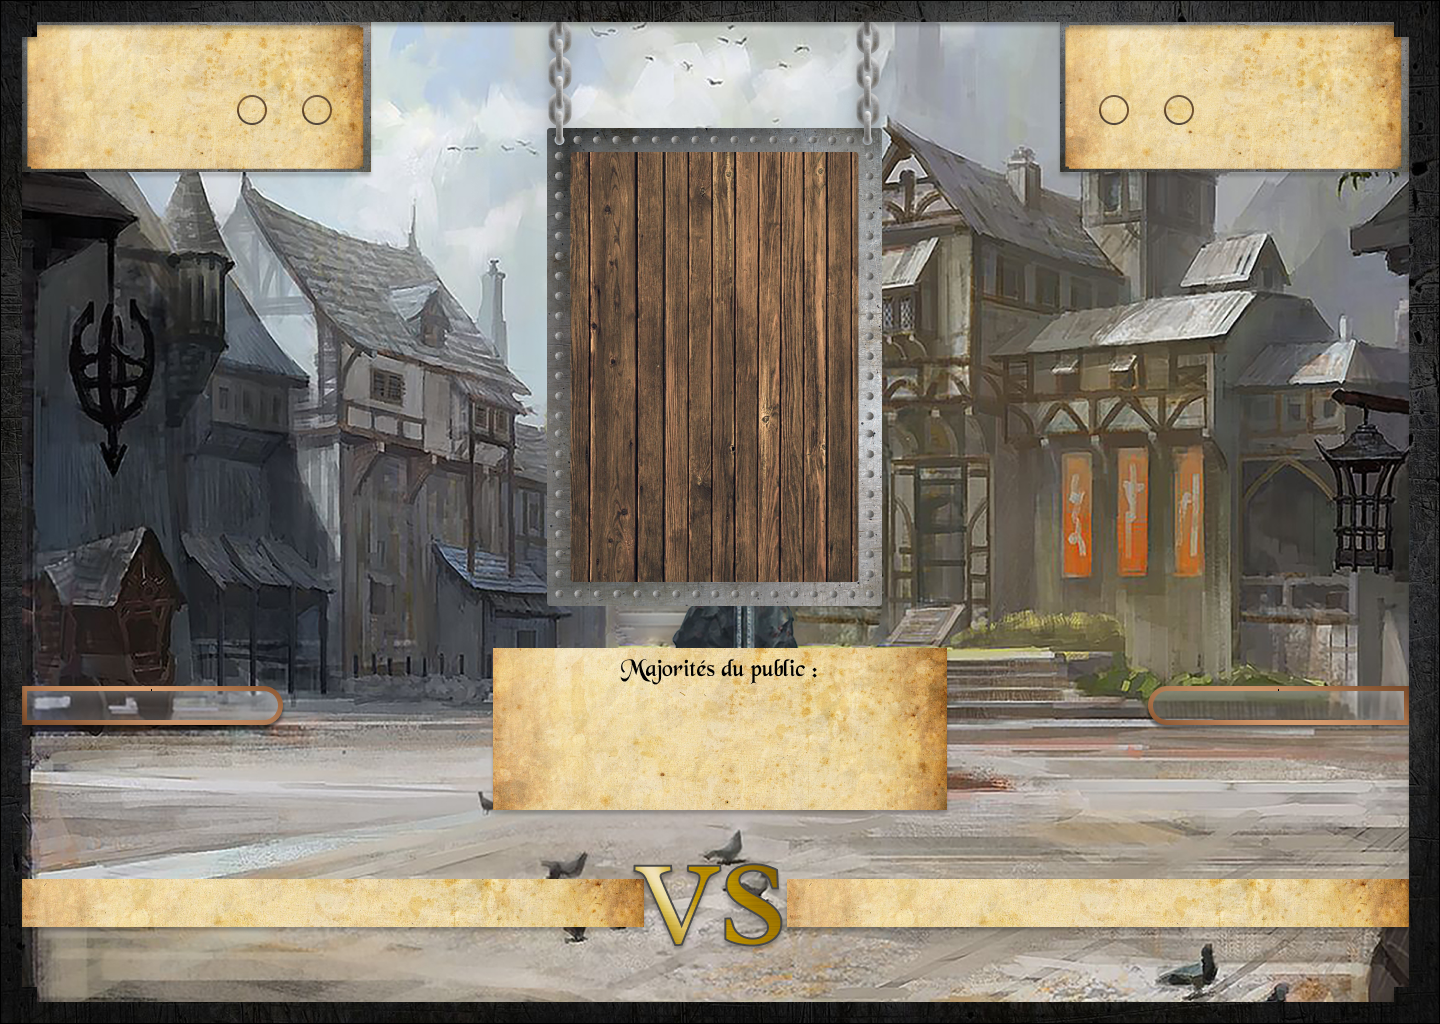
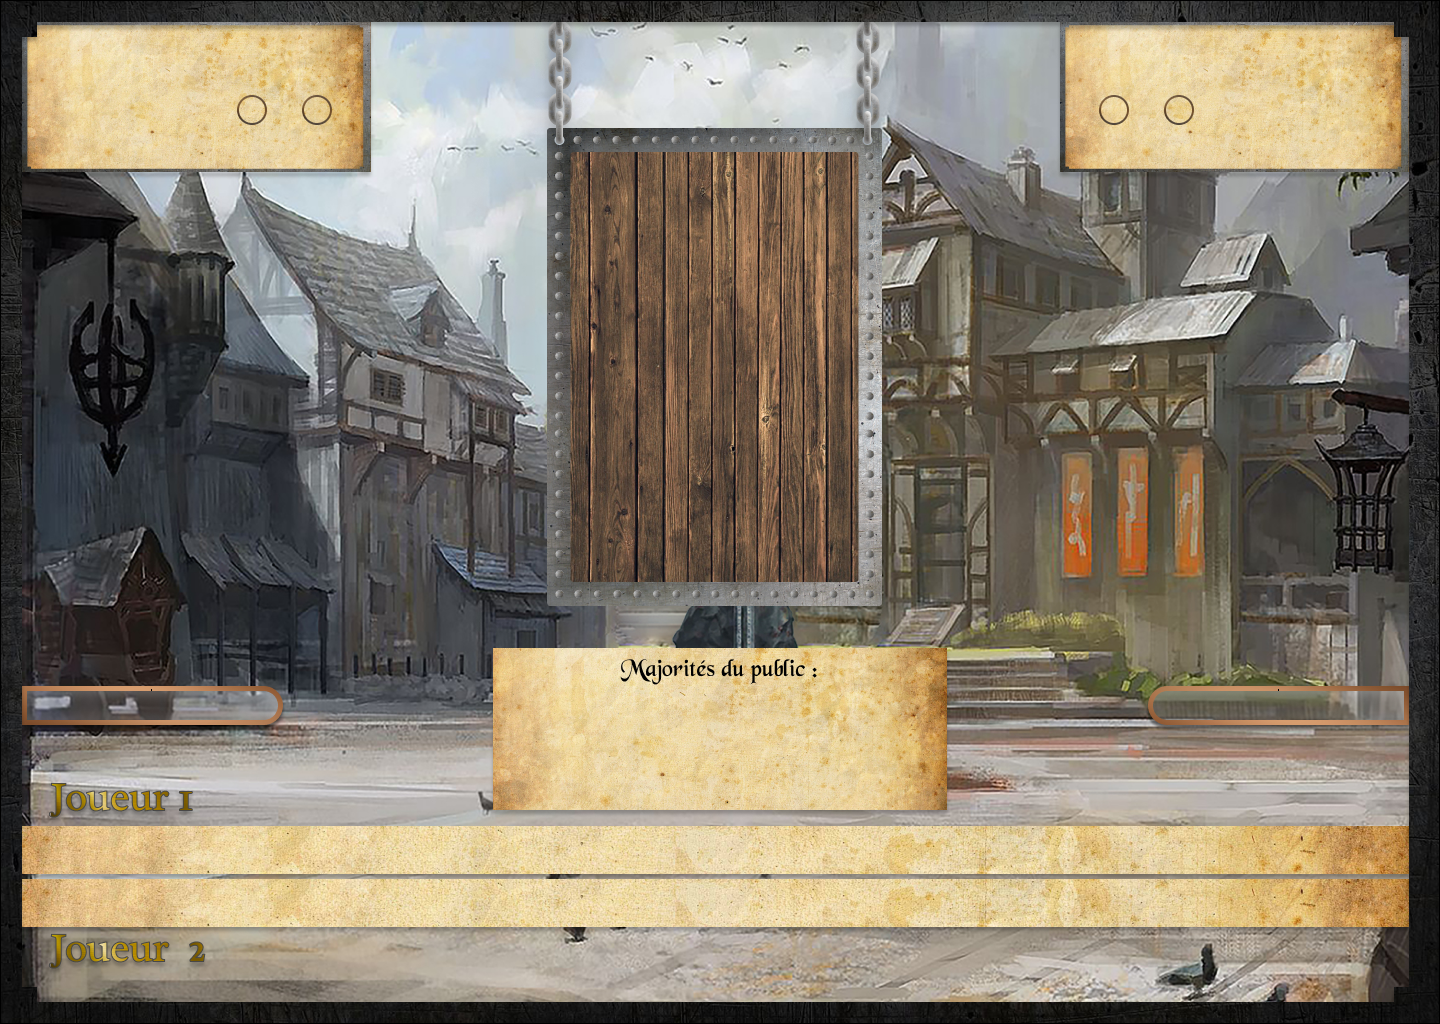
on click sur les mots

Changed region(s): [[0.0, 0.75, 1.0, 0.9688]]

diff --git a/game.py b/game.py
@@ -65,17 +65,21 @@ class Game():
         self.confience_p1x, self.confience_p1y = self.mid_w - 570, self.mid_h + 192
         self.confience_p2x, self.confience_p2y = self.mid_w + 565, self.mid_h + 192
 
-        self.button_carte_pl1x, self.button_carte_pl1y = self.mid_w - 360, self.mid_h + 250
-        self.button_carte_pl2x, self.button_carte_pl2y = self.mid_w + 360, self.mid_h + 250
+        self.button_carte_pl1x, self.button_carte_pl1y = self.mid_w - 360, self.mid_h + 230
+        self.button_carte_pl2x, self.button_carte_pl2y = self.mid_w + 360, self.mid_h + 230
 
-        self.button_exclamation_pl1x, self.button_exlamation_pl1y = self.mid_w - 520, self.mid_h + 300
-        self.button_exclamation_pl2x, self.button_exlamation_pl2y = self.mid_w + 520, self.mid_h + 300
+        self.button_exclamation_pl1x, self.button_exlamation_pl1y = self.mid_w - 480, self.mid_h + 280
+        self.button_exclamation_pl2x, self.button_exlamation_pl2y = self.mid_w + 475, self.mid_h + 280
 
         self.button_victoire1_pl1x, self.button_victoire1_pl1y = self.mid_w - 399, self.mid_h - 405
         self.button_victoire2_pl1x, self.button_victoire2_pl1y = self.mid_w - 464, self.mid_h - 405
         
         self.button_victoire1_pl2x, self.button_victoire1_pl2y = self.mid_w + 399, self.mid_h - 405
         self.button_victoire2_pl2x, self.button_victoire2_pl2y = self.mid_w + 464, self.mid_h - 405
+
+
+        self.phrase_p1x, self.phrase_p1y = self.mid_w, self.mid_h + 336
+        self.phrase_p2x, self.phrase_p2y = self.mid_w, self.mid_h + 386
 
         self.crowdx, self.crowdy = self.mid_w, self.mid_h + 220
         #Bouton du jeux
@@ -114,6 +118,15 @@ class Game():
         self.opion_button = pygame.image.load("assets/option_button.png")
         self.opion_button_rect = self.opion_button.get_rect()
         self.opion_button_rect.center = (self.optionx, self.optiony)
+
+    def end_turn(self):
+        self.turn += 1
+        player_turn = self.player_turn
+        player_not_turn = self.player_not_turn
+        self.player_turn = player_not_turn
+        self.player_not_turn = player_turn
+        print(self.player_turn, self.player_not_turn)
+        self.update_screen()
 
     def update_screen(self):
         self.window.blit(self.display, (0, 0))
@@ -179,6 +192,9 @@ class Game():
             self.display.blit(self.game_mots.button_mot9, self.game_mots.button_mot9_rect)
             self.display.blit(self.game_mots.button_mot10, self.game_mots.button_mot10_rect)
 
+            self.draw_text(self.player1.phrase, 20, (0, 0, 0), self.phrase_p1x, self.phrase_p1y,self.font_name)
+            self.draw_text(self.player2.phrase, 20, (0, 0, 0), self.phrase_p2x, self.phrase_p2y,self.font_name)
+
             self.check_events()
             self.display.blit(self.opion_button, self.opion_button_rect)
 
@@ -243,11 +259,141 @@ class Game():
                         if self.button_carte_pl1_rect.collidepoint(pygame.mouse.get_pos()):
                             self.curr_menu = self.p1_maine_carte
                             self.curr_menu.display_menu()
-
                     if self.player_turn == self.player2:
                         if self.button_carte_pl2_rect.collidepoint(pygame.mouse.get_pos()):
                             self.curr_menu = self.p2_maine_carte
                             self.curr_menu.display_menu()
+
+                    if self.game_mots.button_mot1_rect.collidepoint(pygame.mouse.get_pos()):
+                        if self.player_turn.mot_free:
+                            self.player_turn.phrase += self.game_mots.mot1.name + " "
+                            self.player_turn.mot_free = False
+                            self.game_mots.choix_mot1 = random.randint(0, 73)
+                            self.game_mots.mot1 = self.game_mots.liste_mots.liste_mots[self.game_mots.choix_mot1]
+                            self.game_mots.charge_mots()
+                        else:
+                            self.player_turn.phrase += self.game_mots.mot1.name + " "
+                            self.game_mots.choix_mot1 = random.randint(0, 73)
+                            self.game_mots.mot1 = self.game_mots.liste_mots.liste_mots[self.game_mots.choix_mot1]
+                            self.game_mots.charge_mots()
+                            self.end_turn()
+                    if self.game_mots.button_mot2_rect.collidepoint(pygame.mouse.get_pos()):
+                        if self.player_turn.mot_free:
+                            self.player_turn.phrase += self.game_mots.mot1.name + " "
+                            self.player_turn.mot_free = False
+                            self.game_mots.choix_mot1 = random.randint(0, 73)
+                            self.game_mots.mot1 = self.game_mots.liste_mots.liste_mots[self.game_mots.choix_mot1]
+                            self.game_mots.charge_mots()
+                        else:
+                            self.player_turn.phrase += self.game_mots.mot1.name + " "
+                            self.game_mots.choix_mot1 = random.randint(0, 73)
+                            self.game_mots.mot1 = self.game_mots.liste_mots.liste_mots[self.game_mots.choix_mot1]
+                            self.game_mots.charge_mots()
+                            self.end_turn()
+                    if self.game_mots.button_mot3_rect.collidepoint(pygame.mouse.get_pos()):
+                        if self.player_turn.mot_free:
+                            self.player_turn.phrase += self.game_mots.mot1.name + " "
+                            self.player_turn.mot_free = False
+                            self.game_mots.choix_mot1 = random.randint(0, 73)
+                            self.game_mots.mot1 = self.game_mots.liste_mots.liste_mots[self.game_mots.choix_mot1]
+                            self.game_mots.charge_mots()
+                        else:
+                            self.player_turn.phrase += self.game_mots.mot1.name + " "
+                            self.game_mots.choix_mot1 = random.randint(0, 73)
+                            self.game_mots.mot1 = self.game_mots.liste_mots.liste_mots[self.game_mots.choix_mot1]
+                            self.game_mots.charge_mots()
+                            self.end_turn()
+                    if self.game_mots.button_mot4_rect.collidepoint(pygame.mouse.get_pos()):
+                        if self.player_turn.mot_free:
+                            self.player_turn.phrase += self.game_mots.mot1.name + " "
+                            self.player_turn.mot_free = False
+                            self.game_mots.choix_mot1 = random.randint(0, 73)
+                            self.game_mots.mot1 = self.game_mots.liste_mots.liste_mots[self.game_mots.choix_mot1]
+                            self.game_mots.charge_mots()
+                        else:
+                            self.player_turn.phrase += self.game_mots.mot1.name + " "
+                            self.game_mots.choix_mot1 = random.randint(0, 73)
+                            self.game_mots.mot1 = self.game_mots.liste_mots.liste_mots[self.game_mots.choix_mot1]
+                            self.game_mots.charge_mots()
+                            self.end_turn()
+                    if self.game_mots.button_mot5_rect.collidepoint(pygame.mouse.get_pos()):
+                        if self.player_turn.mot_free:
+                            self.player_turn.phrase += self.game_mots.mot1.name + " "
+                            self.player_turn.mot_free = False
+                            self.game_mots.choix_mot1 = random.randint(0, 73)
+                            self.game_mots.mot1 = self.game_mots.liste_mots.liste_mots[self.game_mots.choix_mot1]
+                            self.game_mots.charge_mots()
+                        else:
+                            self.player_turn.phrase += self.game_mots.mot1.name + " "
+                            self.game_mots.choix_mot1 = random.randint(0, 73)
+                            self.game_mots.mot1 = self.game_mots.liste_mots.liste_mots[self.game_mots.choix_mot1]
+                            self.game_mots.charge_mots()
+                            self.end_turn()
+                    if self.game_mots.button_mot6_rect.collidepoint(pygame.mouse.get_pos()):
+                        if self.player_turn.mot_free:
+                            self.player_turn.phrase += self.game_mots.mot1.name + " "
+                            self.player_turn.mot_free = False
+                            self.game_mots.choix_mot1 = random.randint(0, 73)
+                            self.game_mots.mot1 = self.game_mots.liste_mots.liste_mots[self.game_mots.choix_mot1]
+                            self.game_mots.charge_mots()
+                        else:
+                            self.player_turn.phrase += self.game_mots.mot1.name + " "
+                            self.game_mots.choix_mot1 = random.randint(0, 73)
+                            self.game_mots.mot1 = self.game_mots.liste_mots.liste_mots[self.game_mots.choix_mot1]
+                            self.game_mots.charge_mots()
+                            self.end_turn()
+                    if self.game_mots.button_mot7_rect.collidepoint(pygame.mouse.get_pos()):
+                        if self.player_turn.mot_free:
+                            self.player_turn.phrase += self.game_mots.mot1.name + " "
+                            self.player_turn.mot_free = False
+                            self.game_mots.choix_mot1 = random.randint(0, 73)
+                            self.game_mots.mot1 = self.game_mots.liste_mots.liste_mots[self.game_mots.choix_mot1]
+                            self.game_mots.charge_mots()
+                        else:
+                            self.player_turn.phrase += self.game_mots.mot1.name + " "
+                            self.game_mots.choix_mot1 = random.randint(0, 73)
+                            self.game_mots.mot1 = self.game_mots.liste_mots.liste_mots[self.game_mots.choix_mot1]
+                            self.game_mots.charge_mots()
+                            self.end_turn()
+                    if self.game_mots.button_mot8_rect.collidepoint(pygame.mouse.get_pos()):
+                        if self.player_turn.mot_free:
+                            self.player_turn.phrase += self.game_mots.mot1.name + " "
+                            self.player_turn.mot_free = False
+                            self.game_mots.choix_mot1 = random.randint(0, 73)
+                            self.game_mots.mot1 = self.game_mots.liste_mots.liste_mots[self.game_mots.choix_mot1]
+                            self.game_mots.charge_mots()
+                        else:
+                            self.player_turn.phrase += self.game_mots.mot1.name + " "
+                            self.game_mots.choix_mot1 = random.randint(0, 73)
+                            self.game_mots.mot1 = self.game_mots.liste_mots.liste_mots[self.game_mots.choix_mot1]
+                            self.game_mots.charge_mots()
+                            self.end_turn()
+                    if self.game_mots.button_mot9_rect.collidepoint(pygame.mouse.get_pos()):
+                        if self.player_turn.mot_free:
+                            self.player_turn.phrase += self.game_mots.mot1.name + " "
+                            self.player_turn.mot_free = False
+                            self.game_mots.choix_mot1 = random.randint(0, 73)
+                            self.game_mots.mot1 = self.game_mots.liste_mots.liste_mots[self.game_mots.choix_mot1]
+                            self.game_mots.charge_mots()
+                        else:
+                            self.player_turn.phrase += self.game_mots.mot1.name + " "
+                            self.game_mots.choix_mot1 = random.randint(0, 73)
+                            self.game_mots.mot1 = self.game_mots.liste_mots.liste_mots[self.game_mots.choix_mot1]
+                            self.game_mots.charge_mots()
+                            self.end_turn()
+                    if self.game_mots.button_mot10_rect.collidepoint(pygame.mouse.get_pos()):
+                        if self.player_turn.mot_free:
+                            self.player_turn.phrase += self.game_mots.mot1.name + " "
+                            self.player_turn.mot_free = False
+                            self.game_mots.choix_mot1 = random.randint(0, 73)
+                            self.game_mots.mot1 = self.game_mots.liste_mots.liste_mots[self.game_mots.choix_mot1]
+                            self.game_mots.charge_mots()
+                        else:
+                            self.player_turn.phrase += self.game_mots.mot1.name + " "
+                            self.game_mots.choix_mot1 = random.randint(0, 73)
+                            self.game_mots.mot1 = self.game_mots.liste_mots.liste_mots[self.game_mots.choix_mot1]
+                            self.game_mots.charge_mots()
+                            self.end_turn()
 
                 #bouton menu cartes
                 if self.curr_menu == self.p1_maine_carte:

diff --git a/game_mots.py b/game_mots.py
@@ -76,18 +76,6 @@ class Game_mots():
         self.mot10 = self.liste_mots.liste_mots[self.choix_mot10]
 
     def charge_mots(self):
-        print(
-            self.choix_mot1,
-            self.choix_mot2,
-            self.choix_mot3,
-            self.choix_mot4,
-            self.choix_mot5,
-            self.choix_mot6,
-            self.choix_mot7,
-            self.choix_mot8,
-            self.choix_mot9,
-            self.choix_mot10
-        )
         self.button_mot1 = self.mot1.img
         self.button_mot1_rect = self.button_mot1.get_rect()
         self.button_mot1_rect.center = (self.mot1x, self.mot1y)

diff --git a/player1.py b/player1.py
@@ -9,6 +9,7 @@ class Player1():
     def __init__(self,game):
         self.game = game
         self.player = 1
+        self.phrase = ""
         self.jauge_de_confiance = 0
         self.bonus_publique = 5
         self.caractere = None
@@ -25,6 +26,8 @@ class Player1():
         self.carte_chance = False
         self.carte_oblige = False
         self.second_vie = False
+        self.play_two = False
+        self.mot_free = False
         self.exodio = EXODIO(self.game, "Exodio", "Divin")
 
         self.spritx, self.sprity = self.game.mid_w - 550, self.game.mid_h - 100

diff --git a/player2.py b/player2.py
@@ -9,6 +9,7 @@ class Player2():
     def __init__(self,game):
         self.game = game
         self.player = 2
+        self.phrase = ""
         self.jauge_de_confiance = 0
         self.caractere = None
         self.carte1 = 0
@@ -25,6 +26,8 @@ class Player2():
         self.carte_oblige = False
         self.second_vie = False
         self.antie_vol = False
+        self.play_two = False
+        self.mot_free = False
         self.exodio = EXODIO(self.game, "Exodio", "Divin")
 
         self.spritx, self.sprity = self.game.mid_w + 550, self.game.mid_h - 100
